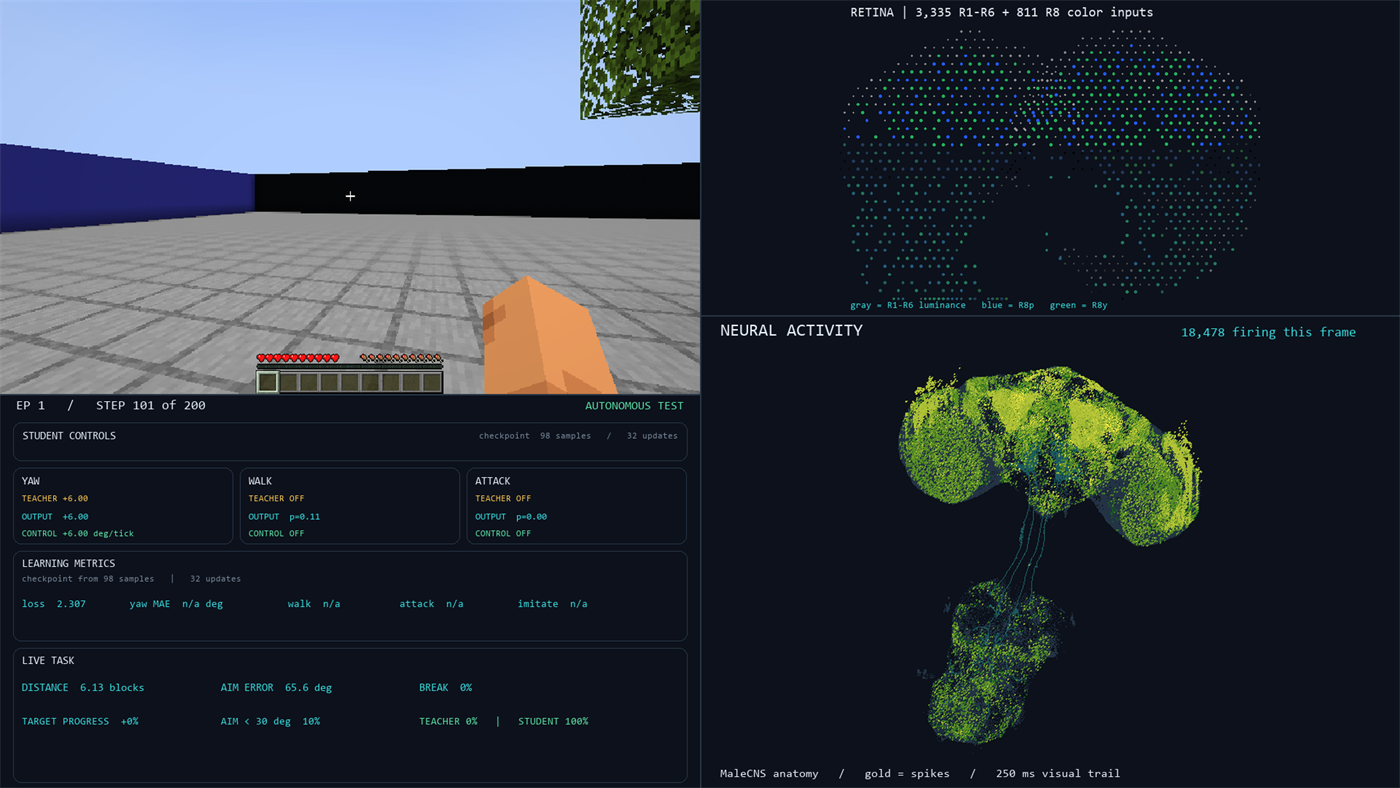
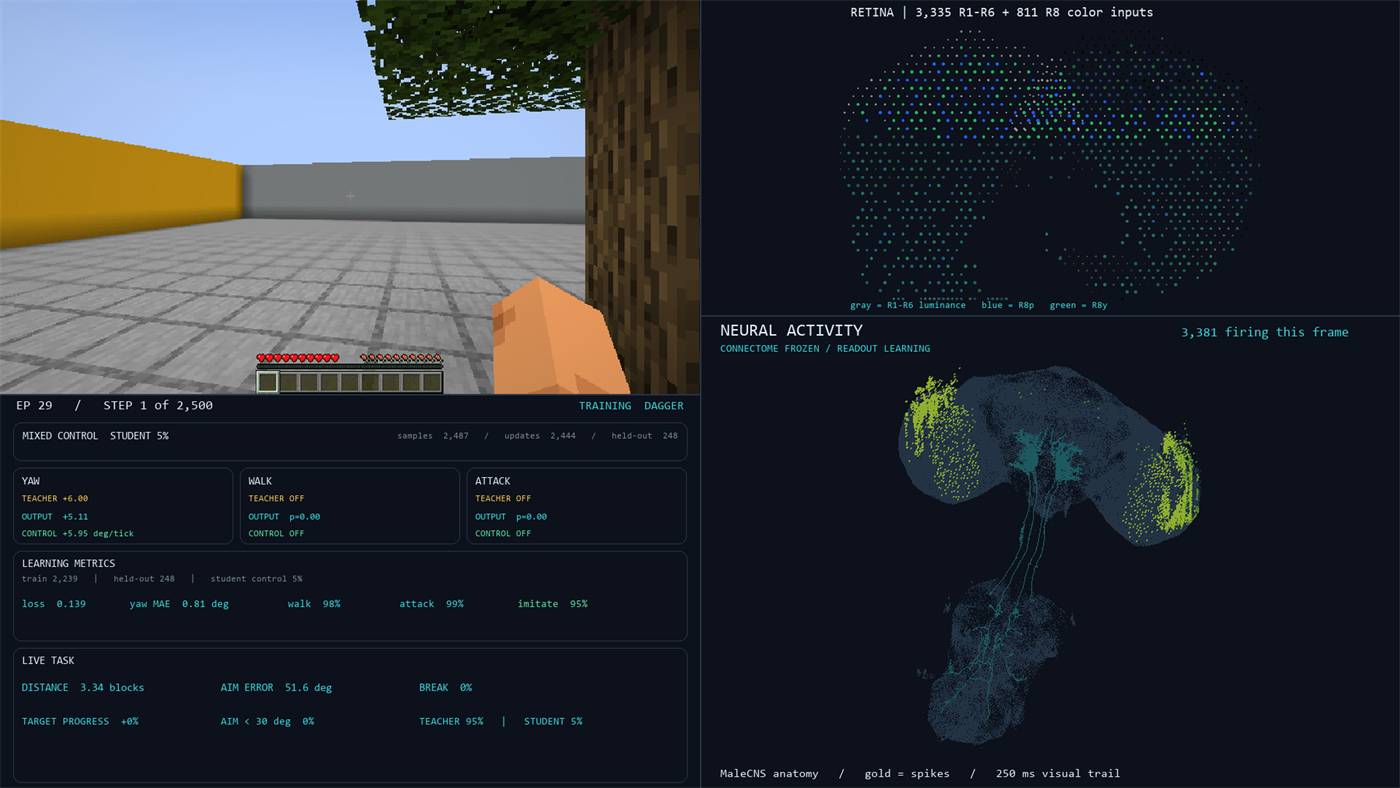
Use current dashboard renders and document the learning-over-time graph
Replace the training and readout dashboard screenshots with the latest recorded renders (which include the PLASTIC TEACHING and IS IT LEARNING? performance-over-time panels). Document that the learning curve is a dashboard panel, not a separate script, and how to view it live or by replaying a recorded episode folder.

diff --git a/docs/running-modes.md b/docs/running-modes.md
@@ -133,8 +133,8 @@ Replay    = chosen checkpoint      → frozen tests + recorded footage
 ![Signed reinforcement training dashboard](images/training-dashboard.png)
 
 *The signed-reinforcement training dashboard: Minecraft view, retina, neural
-activity, decoder readouts, and the current-episode / completed-episode / rolling
-reward graphs.*
+activity, the decoder readouts, the per-tick `PLASTIC TEACHING` signal, and the
+`IS IT LEARNING? | EPISODE PERFORMANCE OVER TIME` learning curve.*
 
 `train.ps1` automatically runs `scripts/prepare_training_runtime.py` before
 launching so CraftGround exposes genuine block-breaking telemetry.
@@ -219,6 +219,36 @@ exactly, but the Minecraft world is not. On resume/branch from such a state,
 FlyCraft restarts the episode and records the unfinished partial episode as
 `censored: true` rather than pretending it completed.
 
+### Viewing learning over time
+
+There is **no separate plotting script**. The learning-over-time graph is a panel
+of the dashboard itself: `IS IT LEARNING? | EPISODE PERFORMANCE OVER TIME`.
+
+- each dot is one completed episode's combined task score (its reward total);
+- the cyan line is the rolling average over
+  `dashboard.reward_rolling_average_episodes`;
+- a gold ring marks episodes that broke the log.
+
+It is evaluation telemetry only — it is never fed back to the fly. The per-tick
+teaching signal is a separate panel, `PLASTIC TEACHING | THIS EPISODE`, which
+shows what was actually injected into plasticity.
+
+Where to see it:
+
+- **Live** during `train.ps1`, and inside the recorded `dashboard.mp4` files.
+- **Offline** by replaying a recorded episode folder with the existing renderer,
+  which re-reads `reward-history.json` and `steps-*.jsonl.gz` and redraws the
+  curve:
+
+  ```powershell
+  .\run-baseline.ps1 -Playback ".\artifacts\training\run-...\episode-000040-step-000015600" -Steps 1 -NoPreview
+  # writes ...\playback-proof\dashboard-preview.png
+  ```
+
+The raw numbers are in `reward-history.json` (per episode) and
+`metrics-<timestamp>.jsonl` (per tick); see
+[checkpoints-and-artifacts.md](checkpoints-and-artifacts.md).
+
 ---
 
 ## 5. Frozen-connectome supervised readout — `train-readout.ps1`
@@ -230,8 +260,9 @@ labels, then lets the student act autonomously. See
 
 ![Supervised readout dashboard](images/readout-dashboard.png)
 
-*The supervised-readout dashboard: the student's yaw/walk/attack, held-out
-imitation metrics, and the live task progress. Note the R8 colour retina.*
+*The supervised-readout dashboard during DAgger: teacher/student control share,
+the student's yaw/walk/attack, held-out imitation metrics, and the live task
+progress. Note the R8 colour retina.*
 
 ```powershell
 .\train-readout.ps1 -Mode Fresh    -Steps 10000 -Config config/new-arch.json

diff --git a/docs/checkpoints-and-artifacts.md b/docs/checkpoints-and-artifacts.md
@@ -99,6 +99,10 @@ number, step range, total reward, mean cumulative reward, starting state,
 success, final distance, angular error, hit rate, rolling reward, teaching
 counts, plasticity summary and behaviour metrics.
 
+This is the data behind the dashboard's
+`IS IT LEARNING? | EPISODE PERFORMANCE OVER TIME` graph (see
+[running-modes.md](running-modes.md#viewing-learning-over-time)).
+
 ### `metrics-<timestamp>.jsonl`
 
 Fine-grained telemetry: one JSON object per control tick, including global step,

diff --git a/docs/configuration.md b/docs/configuration.md
@@ -134,6 +134,10 @@ expensive dashboard/video/activity work.
 |---|---|
 | `reward_rolling_average_episodes` | Rolling-average window in the dashboard. |
 
+This window drives the cyan rolling line in the dashboard's
+`IS IT LEARNING? | EPISODE PERFORMANCE OVER TIME` graph — see
+[running-modes.md](running-modes.md#viewing-learning-over-time).
+
 ### `decoder` (optional)
 
 Absent = legacy BCI. See [decoder.md](decoder.md). Fields depend on mode:
